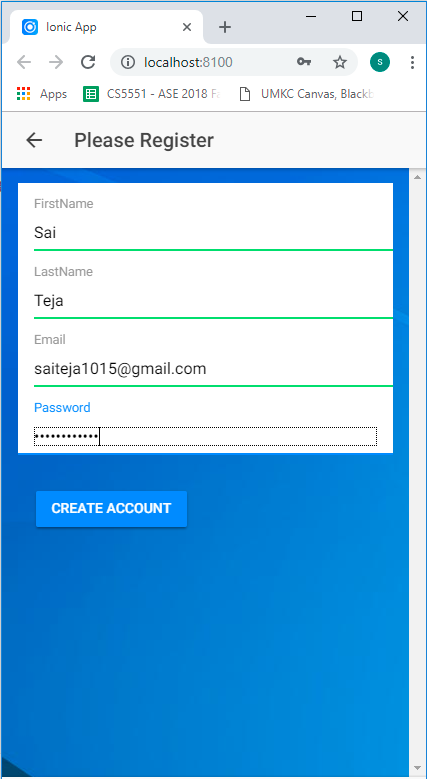
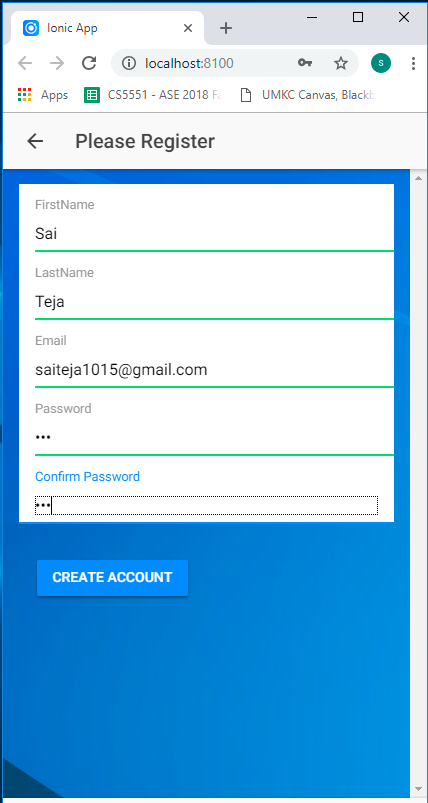
icp 6 changes

Changed region(s): [[0.0, 0.0, 1.0, 1.0], [0.8525, 0.0616, 0.9133, 0.0924]]

diff --git a/ICP_6/ICP/src/pages/testing/testing.ts b/ICP_6/ICP/src/pages/testing/testing.ts
@@ -1,0 +1,25 @@
+import { Component } from '@angular/core';
+import { IonicPage, NavController, NavParams } from 'ionic-angular';
+
+/**
+ * Generated class for the TestingPage page.
+ *
+ * See https://ionicframework.com/docs/components/#navigation for more info on
+ * Ionic pages and navigation.
+ */
+
+@IonicPage()
+@Component({
+  selector: 'page-testing',
+  templateUrl: 'testing.html',
+})
+export class TestingPage {
+
+  constructor(public navCtrl: NavController, public navParams: NavParams) {
+  }
+
+  ionViewDidLoad() {
+    console.log('ionViewDidLoad TestingPage');
+  }
+
+}

diff --git a/ICP_6/ICP/src/pages/test/test.ts b/ICP_6/ICP/src/pages/test/test.ts
@@ -1,0 +1,25 @@
+import { Component } from '@angular/core';
+import { IonicPage, NavController, NavParams } from 'ionic-angular';
+
+/**
+ * Generated class for the TestPage page.
+ *
+ * See https://ionicframework.com/docs/components/#navigation for more info on
+ * Ionic pages and navigation.
+ */
+
+@IonicPage()
+@Component({
+  selector: 'page-test',
+  templateUrl: 'test.html',
+})
+export class TestPage {
+
+  constructor(public navCtrl: NavController, public navParams: NavParams) {
+  }
+
+  ionViewDidLoad() {
+    console.log('ionViewDidLoad TestPage');
+  }
+
+}

diff --git a/ICP_6/ICP/src/pages/about/about.html b/ICP_6/ICP/src/pages/about/about.html
@@ -23,8 +23,8 @@
       <ion-input type = "password"[(ngModel)]="password" id = password></ion-input>
     </ion-item>
       <ion-item>
-      <ion-label floating>ConfirmPassword</ion-label>
-      <ion-input type = "password"[(ngModel)]="confirmpassword" id = confirmpassword></ion-input>
+      <ion-label floating>Confirm Password</ion-label>
+      <ion-input type = "password"[(ngModel)]="cpassword" id = cpassword></ion-input>
     </ion-item>
   </ion-list>
   <div padding>

diff --git a/ICP_6/ICP/src/pages/about/about.ts b/ICP_6/ICP/src/pages/about/about.ts
@@ -6,7 +6,8 @@ import { NavController,AlertController } from 'ionic-angular';
   templateUrl: 'about.html'
 })
 export class AboutPage {
-
+password: String;
+cpassword: String;
   constructor(public navCtrl: NavController,public alertCrtl: AlertController) {
 
   }
@@ -21,5 +22,7 @@ export class AboutPage {
         alert.present();
     }
     
+    
   }
-  }
+  
+}

diff --git a/ICP_6/ICP/src/pages/testing/testing.html b/ICP_6/ICP/src/pages/testing/testing.html
@@ -1,0 +1,18 @@
+<!--
+  Generated template for the TestingPage page.
+
+  See http://ionicframework.com/docs/components/#navigation for more info on
+  Ionic pages and navigation.
+-->
+<ion-header>
+
+  <ion-navbar>
+    <ion-title>testing</ion-title>
+  </ion-navbar>
+
+</ion-header>
+
+
+<ion-content padding>
+
+</ion-content>

diff --git a/ICP_6/ICP/src/pages/test/test.html b/ICP_6/ICP/src/pages/test/test.html
@@ -1,0 +1,18 @@
+<!--
+  Generated template for the TestPage page.
+
+  See http://ionicframework.com/docs/components/#navigation for more info on
+  Ionic pages and navigation.
+-->
+<ion-header>
+
+  <ion-navbar>
+    <ion-title>test</ion-title>
+  </ion-navbar>
+
+</ion-header>
+
+
+<ion-content padding>
+
+</ion-content>

diff --git a/ICP_6/ICP/src/pages/testing/testing.module.ts b/ICP_6/ICP/src/pages/testing/testing.module.ts
@@ -1,0 +1,13 @@
+import { NgModule } from '@angular/core';
+import { IonicPageModule } from 'ionic-angular';
+import { TestingPage } from './testing';
+
+@NgModule({
+  declarations: [
+    TestingPage,
+  ],
+  imports: [
+    IonicPageModule.forChild(TestingPage),
+  ],
+})
+export class TestingPageModule {}

diff --git a/ICP_6/ICP/src/pages/test/test.module.ts b/ICP_6/ICP/src/pages/test/test.module.ts
@@ -1,0 +1,13 @@
+import { NgModule } from '@angular/core';
+import { IonicPageModule } from 'ionic-angular';
+import { TestPage } from './test';
+
+@NgModule({
+  declarations: [
+    TestPage,
+  ],
+  imports: [
+    IonicPageModule.forChild(TestPage),
+  ],
+})
+export class TestPageModule {}

diff --git a/ICP_6/ICP/src/pages/testing/testing.scss b/ICP_6/ICP/src/pages/testing/testing.scss
@@ -1,0 +1,3 @@
+page-testing {
+
+}

diff --git a/ICP_6/ICP/src/pages/test/test.scss b/ICP_6/ICP/src/pages/test/test.scss
@@ -1,0 +1,3 @@
+page-test {
+
+}
